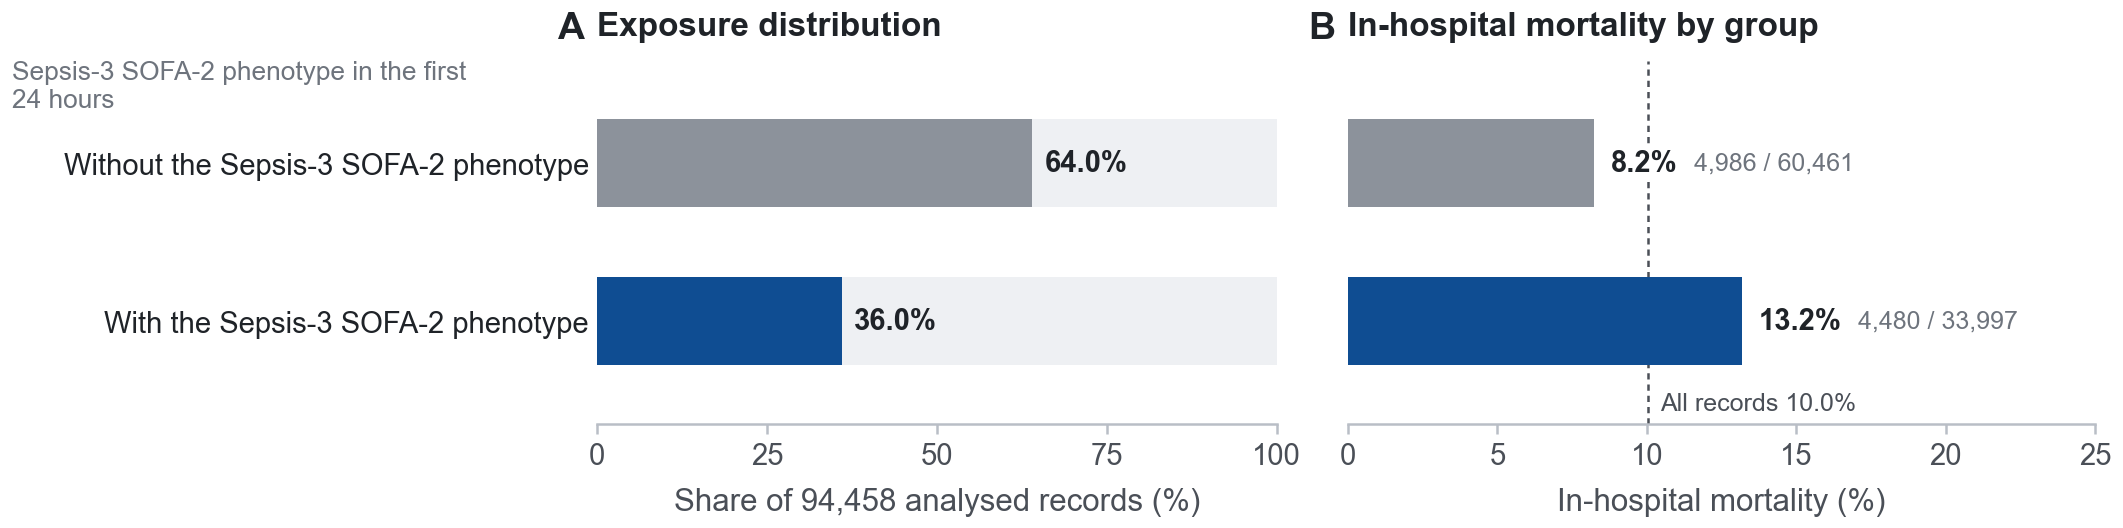
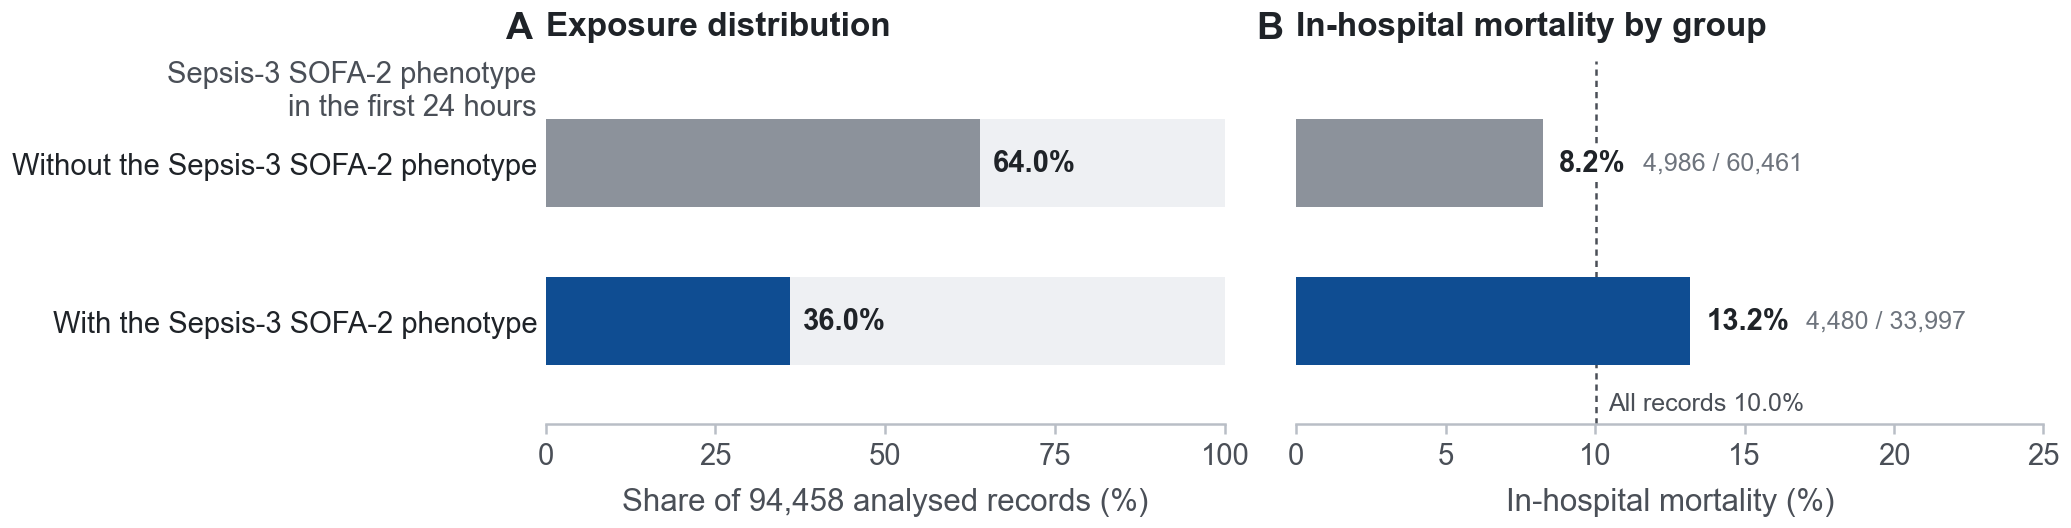
Set the distribution figure's exposure name as its category column head
The two-panel exposure/outcome distribution figure printed the exposure's
name left-aligned at the figure edge, under letter A and away from the
right-aligned category labels it names, so it read as a stray line (the
workflow demo's "Sepsis-3 SOFA-2 phenotype in the first / 24 hours"). It now
heads the label column: right-aligned with the labels, 7 pt (the shared
text floor) in the secondary ink, wrapped to balanced lines measured at the
size it is drawn. The left margin accounts for it at that size.

Its measured width sets a left anchor with right-aligned lines: a
right-anchored SVG text node let the export audit's conservative width
estimate run off the canvas when the name is wider than short labels
("Yes"/"No"), failing test_patient_cluster_intervals_... . No value, label
text or mark changes.

A new test checks the head's right edge against the labels', its size,
that it overlaps no label, and balanced lines; it fails on the parent.

The workflow demo's main figure is redrawn with it (tools/
build_demo_walkthrough_trace.py, build_demo_study_report.py on the
registered run): only that PNG, its digest in the trace record and the two
study reports' image token change; the supporting figures are
byte-identical. The demo's figure URL token follows.

Figure text stays English: figure_language_labels keeps figures in their
own English text by design.

Execution kernel: exposure_outcome_distribution_render.py is a kernel
file; rebuild the runner image after landing.

diff --git a/src/easyicu/webserver/static/assets/demo/sofa2-study-report.en.html b/src/easyicu/webserver/static/assets/demo/sofa2-study-report.en.html
@@ -61,7 +61,7 @@ a{color:var(--accent)}
 <p class="table-caption"><b>Table 1</b> In-hospital mortality by phenotype group</p>
 <table class="three-line"><thead><tr><th scope="col">Group</th><th scope="col">ICU stays, n</th><th scope="col">Share, %</th><th scope="col">Deaths, n</th><th scope="col">In-hospital mortality, %</th></tr></thead><tbody><tr><th scope="row">With the phenotype</th><td>33,997</td><td>36.0</td><td>4,480</td><td>13.2</td></tr><tr><th scope="row">Without the phenotype</th><td>60,461</td><td>64.0</td><td>4,986</td><td>8.2</td></tr><tr><th scope="row">All stays</th><td>94,458</td><td>100.0</td><td>9,466</td><td>10.0</td></tr></tbody></table>
 <p class="table-note">Denominators are all stays in each group; percentages are computed from the counts shown.</p>
-<figure><img src="sofa2-phenotype-mortality-rerendered.png?v=514c737f" alt=""><figcaption><b>Figure 2</b> Share of stays by phenotype (A) and in-hospital mortality by group (B). The dashed line in B is the mortality of all stays. Redrawn from the registered result table.</figcaption></figure>
+<figure><img src="sofa2-phenotype-mortality-rerendered.png?v=af17ce8d" alt=""><figcaption><b>Figure 2</b> Share of stays by phenotype (A) and in-hospital mortality by group (B). The dashed line in B is the mortality of all stays. Redrawn from the registered result table.</figcaption></figure>
 <h2>How far the result reads</h2>
 <ul class="boundary"><li><b>Descriptive only.</b> The difference in mortality between the groups is not an effect of the phenotype, and nothing is adjusted for confounding.</li><li><b>Exposure assessed after the start of follow-up.</b> The phenotype is assessed over the first 24 hours, so stays ending in early death had a different opportunity to meet it<sup>5,6</sup>; the plan records this as an open limitation.</li><li><b>No patient identifier.</b> Repeat stays of one patient count as separate stays, so no interval estimate is given.</li></ul>
 <h2>Data and code traceability</h2>

diff --git a/src/easyicu/webserver/static/assets/demo/sofa2-study-report.zh.html b/src/easyicu/webserver/static/assets/demo/sofa2-study-report.zh.html
@@ -61,7 +61,7 @@ a{color:var(--accent)}
 <p class="table-caption"><b>表 1</b> 按表型分组的院内死亡</p>
 <table class="three-line"><thead><tr><th scope="col">分组</th><th scope="col">ICU 入住，n</th><th scope="col">占比，%</th><th scope="col">死亡，n</th><th scope="col">院内死亡率，%</th></tr></thead><tbody><tr><th scope="row">有表型</th><td>33,997</td><td>36.0</td><td>4,480</td><td>13.2</td></tr><tr><th scope="row">无表型</th><td>60,461</td><td>64.0</td><td>4,986</td><td>8.2</td></tr><tr><th scope="row">全部入住</th><td>94,458</td><td>100.0</td><td>9,466</td><td>10.0</td></tr></tbody></table>
 <p class="table-note">分母为各组全部入住；百分比由表中计数计算。</p>
-<figure><img src="sofa2-phenotype-mortality-rerendered.png?v=514c737f" alt=""><figcaption><b>图 2</b> 表型占比（A）与各组院内死亡率（B）。B 中虚线为全部入住的死亡率。按登记的结果表重新绘制。</figcaption></figure>
+<figure><img src="sofa2-phenotype-mortality-rerendered.png?v=af17ce8d" alt=""><figcaption><b>图 2</b> 表型占比（A）与各组院内死亡率（B）。B 中虚线为全部入住的死亡率。按登记的结果表重新绘制。</figcaption></figure>
 <h2>结果的解读范围</h2>
 <ul class="boundary"><li><b>仅描述性。</b>两组死亡率的差别不能解读为表型导致死亡，也没有调整任何混杂。</li><li><b>暴露时间晚于随访起点。</b>表型在入 ICU 后 24 小时内判定，24 小时内死亡的患者获得表型的机会不同<sup>5,6</sup>；计划将此列为未解决的局限。</li><li><b>没有患者标识。</b>同一患者的多次入住按独立入住计数，因此没有给出区间估计。</li></ul>
 <h2>数据与代码可追溯性</h2>

diff --git a/src/easyicu/webserver/static/js/screens-guided-pi-demo.js b/src/easyicu/webserver/static/js/screens-guided-pi-demo.js
@@ -7,7 +7,7 @@
   const SOURCE_RUN_ID = 'run_20260815T061842_5049c6';
   // The answer shows the registered result table drawn by the current figure
   // renderer; the run's own figure stays unchanged and one click away.
-  const FIGURE_URL = 'assets/demo/sofa2-phenotype-mortality-rerendered.png?v=20261026-fig1';
+  const FIGURE_URL = 'assets/demo/sofa2-phenotype-mortality-rerendered.png?v=20261026-fig2';
   const ORIGINAL_FIGURE_URL = 'assets/demo/sofa2-phenotype-mortality.png?v=20260922-demo2';
   // The registered result laid out as a journal-style descriptive report
   // (tools/build_demo_study_report.py); it is not the withheld manuscript.

diff --git a/src/easyicu/webserver/static/index.html b/src/easyicu/webserver/static/index.html
@@ -202,7 +202,7 @@
 <script src="js/screens-guided-pi-header.js?v=20261021-help1"></script>
 <script src="js/screens-guided-pi-model-menu.js?v=20260923-keep-open1"></script>
 <script src="js/screens-guided-pi-effort-menu.js?v=20260922-popover1"></script>
-<script src="js/screens-guided-pi-demo.js?v=20261026-fig1"></script>
+<script src="js/screens-guided-pi-demo.js?v=20261026-fig2"></script>
 <script src="js/screens-guided-pi-demo-trace.js?v=20261026-demo3"></script>
 <script src="js/screens-guided-pi-demo-walkthrough.js?v=20261026-demo3"></script>
 <script src="js/screens-guided-pi-workbench-preview.js?v=20260829-data-readiness1"></script>

diff --git a/src/easyicu/research_agent/execution/runners/exposure_outcome_distribution_render.py b/src/easyicu/research_agent/execution/runners/exposure_outcome_distribution_render.py
@@ -1001,12 +1001,29 @@ def run_exposure_outcome_distribution_figure(
             else:
                 high_width, wrapped_labels = candidate_width, candidates
     ax_a.set_yticklabels(wrapped_labels)
+    # The column head is set at 7 pt and wrapped to balanced lines, like the
+    # labels below it, instead of leaving a short last line.
+    header_font = label_font.copy()
+    header_font.set_size(7)
     header = _wrap_category_label(
-        exposure_name, renderer=canvas, font=label_font, width=label_width
+        exposure_name, renderer=canvas, font=header_font, width=label_width
     )
+    header_lines = header.count("\n") + 1
+    if header_lines > 1:
+        low_width, high_width = label_width / header_lines, label_width
+        for _ in range(8):
+            candidate_width = (low_width + high_width) / 2
+            candidate = _wrap_category_label(
+                exposure_name, renderer=canvas, font=header_font, width=candidate_width
+            )
+            if candidate.count("\n") + 1 > header_lines:
+                low_width = candidate_width
+            else:
+                high_width, header = candidate_width, candidate
     rendered_width = max(
-        canvas.get_text_width_height_descent(part, label_font, False)[0]
-        for label in [*wrapped_labels, header] for part in label.split("\n")
+        canvas.get_text_width_height_descent(part, font, False)[0]
+        for label, font in [*((label, label_font) for label in wrapped_labels), (header, header_font)]
+        for part in label.split("\n")
     )
     fig.subplots_adjust(left=max(0.12, (rendered_width + fig.dpi * 0.24) / fig.bbox.width))
     # One aligned category axis serves both panels. Repeating a long clinical
@@ -1093,11 +1110,21 @@ def run_exposure_outcome_distribution_figure(
             if left_inches is not None else -0.14 / width_inches
         )
         add_panel_label(axis, letter, x=x, y=1.0 + 5.0 / 72.0 / height_inches)
-    # The variable's name heads the category column, flush with letter A.
-    box = ax_a.get_position()
+    # The variable's name heads the category column: right-aligned with the
+    # category labels it names, so it reads as their column head rather than a
+    # stray line under letter A. Its measured width sets a left anchor, so the
+    # SVG text box an export audit estimates grows into the plot, not off the
+    # canvas.
+    pad_pixels = float(matplotlib.rcParams["ytick.major.pad"]) * fig.dpi / 72.0
+    header_pixels = max(
+        canvas.get_text_width_height_descent(part, header_font, False)[0]
+        for part in header.split("\n")
+    )
+    axis_pixels = ax_a.get_position().width * fig.bbox.width
     ax_a.text(
-        (0.04 - box.x0 * 7.2) / (box.width * 7.2), 1.0, header,
-        transform=ax_a.transAxes, ha="left", va="top", fontsize=6.3, color=ink_3,
+        -(pad_pixels + header_pixels) / axis_pixels, 1.0, header,
+        transform=ax_a.transAxes, ha="left", va="top", ma="right",
+        fontproperties=header_font, color=ink_2,
     )
     if contrast is not None:
         coverage = 100.0 * float(contrast["confidence_level"])

diff --git a/tests/research_agent/core/test_exposure_outcome_distribution_render.py b/tests/research_agent/core/test_exposure_outcome_distribution_render.py
@@ -248,6 +248,40 @@ def test_a_chinese_display_label_keeps_the_sealed_group_name_in_the_caption(tmp_
     assert "Lower band" in svg and "Upper band" in svg
 
 
+def test_the_exposure_name_heads_the_category_column(tmp_path, monkeypatch):
+    # The variable's name is the category labels' column head: right-aligned
+    # with them, above the first row, and wrapped to balanced lines.
+    from easyicu.research_agent.execution.runners import exposure_outcome_distribution_render as owner
+    table = _produced_table(tmp_path, monkeypatch)
+    run_dir, manifest = _bound(tmp_path, table)
+    name = "Anticoagulant exposure recorded during the first 24 hours"
+    labels = {EXPOSURE: name, f"{EXPOSURE}=0": "Without a recorded anticoagulant", f"{EXPOSURE}=1": "With a recorded anticoagulant"}
+    exporter = owner.save_publication_figure
+
+    def check(fig, *args, **kwargs):
+        fig.canvas.draw()
+        canvas = fig.canvas.get_renderer()
+        ax = fig.axes[0]
+        head = next(text for text in ax.texts if " ".join(text.get_text().split()) == name)
+        ticks = [label for label in ax.get_yticklabels() if label.get_visible()]
+        head_box = head.get_window_extent(canvas)
+        tick_boxes = [label.get_window_extent(canvas) for label in ticks]
+        assert abs(head_box.x1 - max(box.x1 for box in tick_boxes)) <= 1.0
+        assert head.get_fontsize() >= 7
+        assert all(not head_box.overlaps(box) for box in tick_boxes)
+        lines = head.get_text().split("\n")
+        if len(lines) > 1:
+            widths = [len(line) for line in lines]
+            assert min(widths) >= 0.5 * max(widths)
+        return exporter(fig, *args, **kwargs)
+
+    monkeypatch.setattr(owner, "save_publication_figure", check)
+    run_exposure_outcome_distribution_figure(
+        out_dir=tmp_path / "head", run_dir=run_dir, resolved_inputs=manifest,
+        step_id=STEP_ID, figure_product=PRODUCT, display_labels=labels,
+    )
+
+
 def _tampered(tmp_path: Path, monkeypatch, mutate) -> tuple[Path, dict]:
     """Rebind a table after ``mutate`` has changed one published number."""
 

diff --git a/tests/webserver/copilot/test_pi_copilot_static.py b/tests/webserver/copilot/test_pi_copilot_static.py
@@ -99,7 +99,7 @@ def test_pi_shell_assets_are_explicitly_wired_before_guided_owner() -> None:
     assert "css/workspace-canvas.css?v=20261022-winfont1" in index
     assert "css/guided-pi-workspace.css?v=20261021-entry-examples1" in index
     assert "css/guided-pi-empty-tasks.css?v=20260921-empty-tasks1" in index
-    assert "js/screens-guided-pi-demo.js?v=20261026-fig1" in index
+    assert "js/screens-guided-pi-demo.js?v=20261026-fig2" in index
     assert "js/screens-guided-pi-demo-trace.js?v=20261026-demo3" in index
     assert "js/screens-guided-pi-demo-walkthrough.js?v=20261026-demo3" in index
     assert "css/guided-pi-demo-walkthrough.css?v=20261026-demo3" in index
